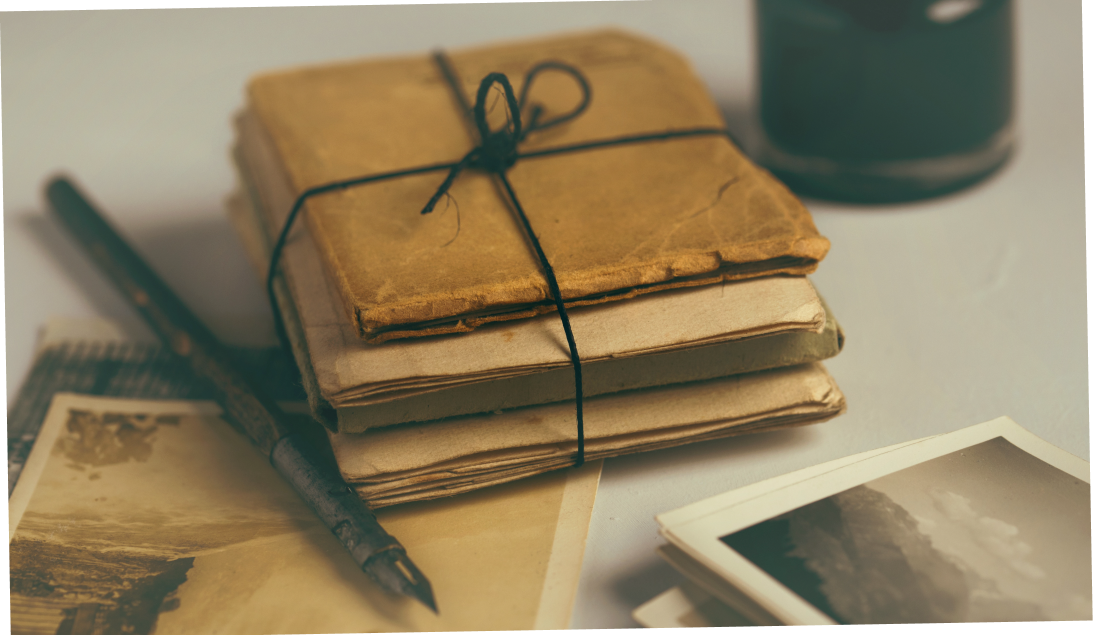
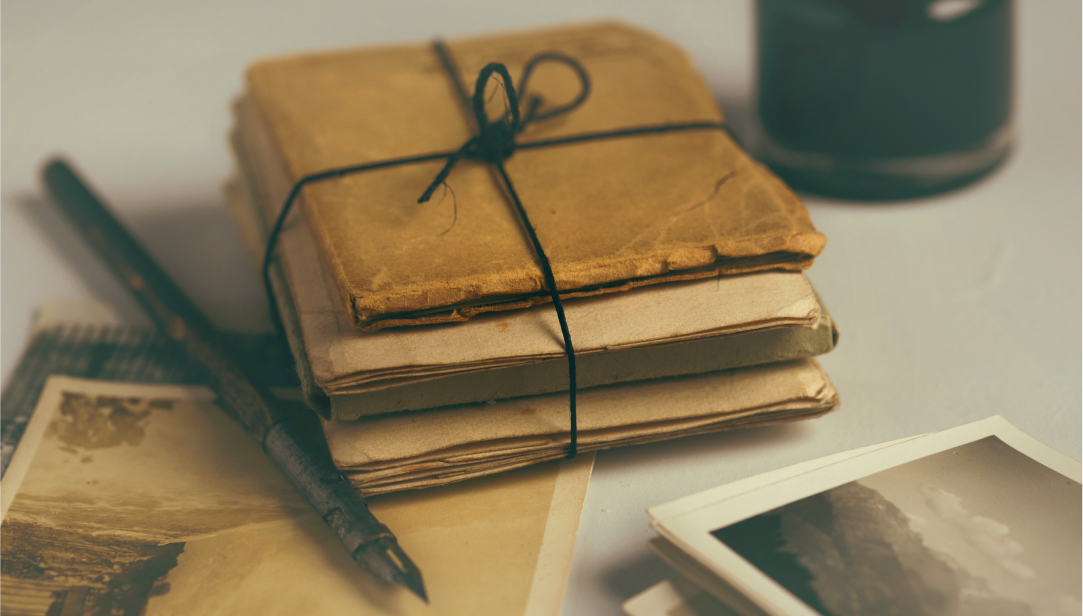
v2-edit1

diff --git a/general-style.css b/general-style.css
@@ -1,10 +1,31 @@
 @import url('https://fonts.googleapis.com/css2?family=Libre+Baskerville:ital,wght@0,400;0,700;1,400&display=swap');
+@font-face {
+    font-family: 'Amalfi Coast';
+    src: local('Amalfi Coast'), url('/font/Amalfi\ Coast.ttf');
+}
 
 :root{
     --dark: #132019;
     --light: #F5E8C8;
     --red: #9B191B;
     --dark-hover: #13201940;
+}
+
+.h1{
+    font-family: Amalfi Coast;
+    font-size: 72px;
+    font-style: normal;
+    font-weight: 400;
+    line-height: 170%; /* 122.4px */
+    letter-spacing: 1.44px;
+}
+
+.fs-1{
+    font-family: Libre Baskerville;
+    font-size: 22px !important; 
+    font-style: normal;
+    font-weight: 400;
+    line-height: 160%
 }
 
 body{
@@ -20,7 +41,6 @@ body{
     /* mix-blend-mode: darken; */
     box-shadow: 0px 4px 4px 0px rgba(0, 0, 0, 0.25);
     color: var(--dark);
-    font-feature-settings: 'calt' off;
     font-size: 18px;
     font-style: normal;
     font-weight: 700;
@@ -101,15 +121,12 @@ input[type=text]:focus, input[type=email]:focus{
     margin: -95px auto 0;
 }
 
-.text-center{
+.copyright{
+    padding: 32px !important;
     font-family: sans-serif;
     font-size: 14px;
     font-style: normal;
     font-weight: 200;
     line-height: 150%;
     letter-spacing: 0;
-}
-
-.copyright{
-    padding: 32px !important;
 }

diff --git a/diario.html b/diario.html
@@ -46,12 +46,18 @@
   </nav>
 
 
-      <!-- CONTENT -->
-
-
+      <!-- HERO -->
       
+  <div id="hero">
+    <h1 class="h1 text-center">Diario</h1>
+    <p class="fs-1 text-center">Scopri chi siamo attraverso la nostra avventura</p>
+  </div>
+  <div class="position-relative">
+    <img src="/img/Diario/img-hero-diario.png" class="mx-auto d-block" id="hero-img" alt="Immagine di buste impacchettate con penna, inchiostro e delle fotografie">
+    <img src="/img/nastro.png" class="position-absolute nas-1">
+  </div> 
       
-      <!-- -!- BUSTA + EFFETTO -!- 3D -->
+      <!-- -!- BUSTA -->
 
       <div ><img class="envelope" src="/img/Diario/Busta.png"></div>
 

diff --git a/diario.css b/diario.css
@@ -1,3 +1,17 @@
+#hero{
+    margin: 188px 0 119px;
+}
+
+#hero-img{
+    transform: rotate(-1deg);
+    border: 30px solid #CDC0A5;
+}
+
+.nas-1{
+    top: -89px;
+    right: -41px;
+}
+
 .envelope{
     margin-left: -209px;
 }
